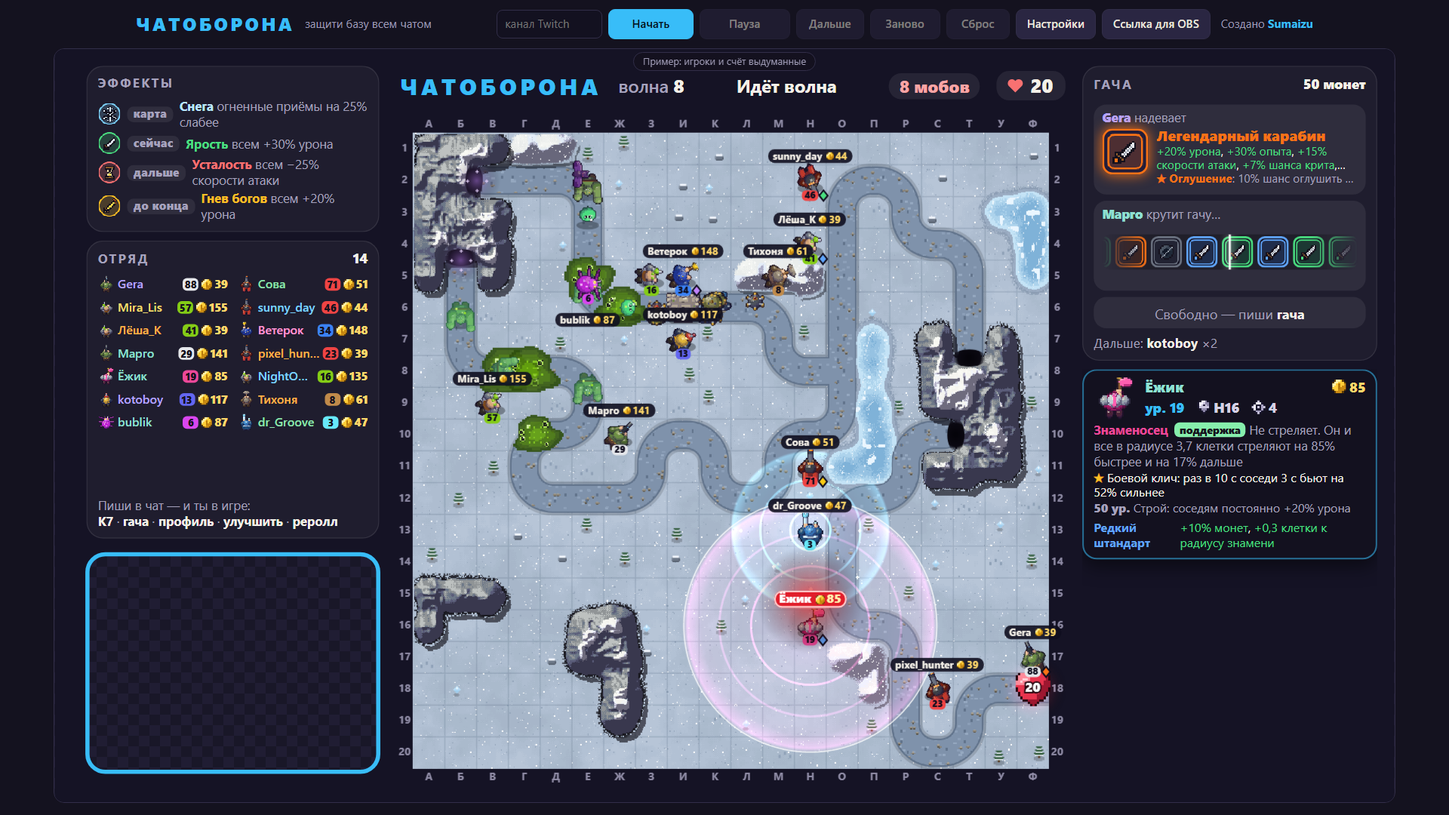
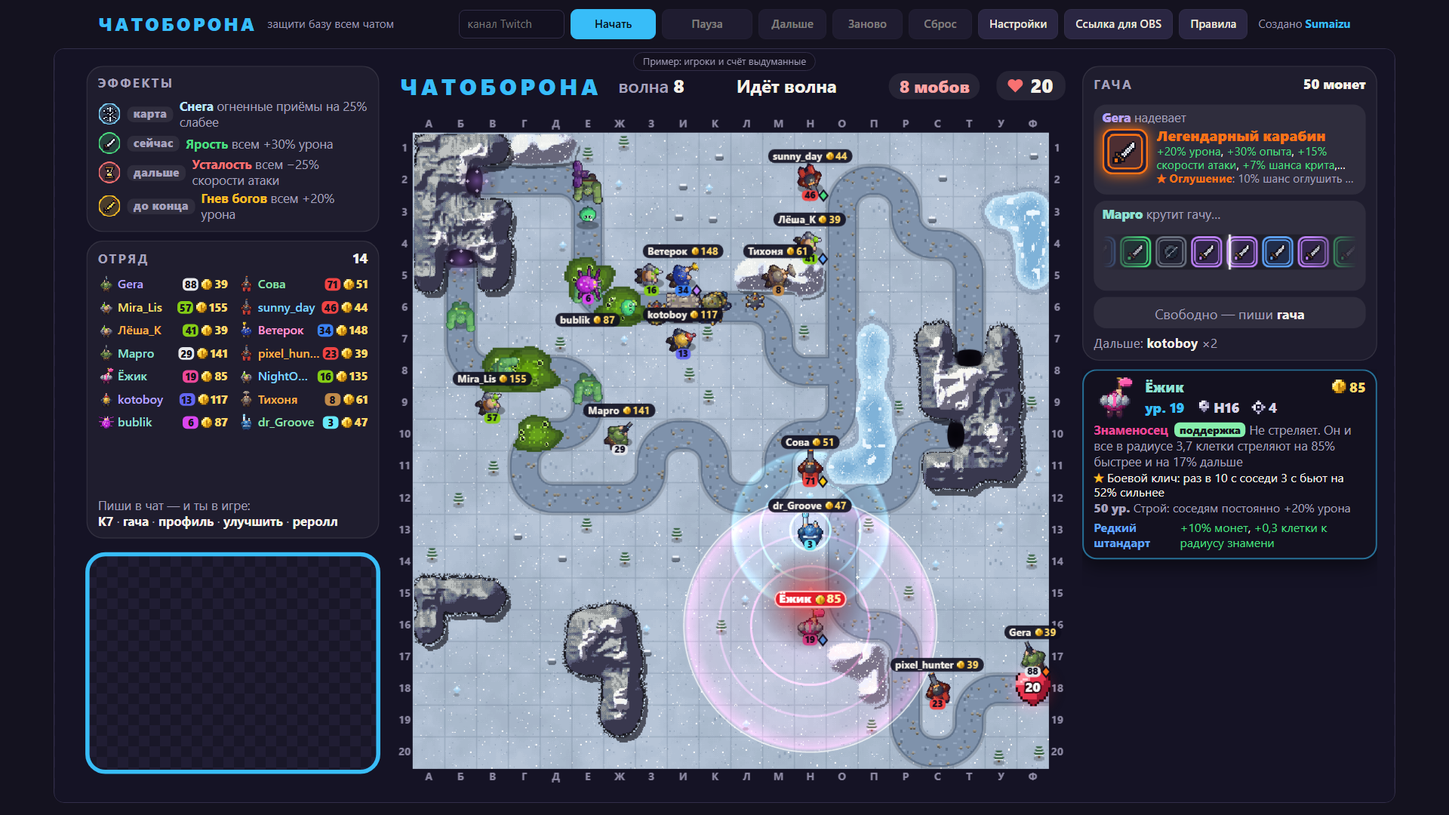
Кнопка «Правила» и команда !чатоборона: правила в оверлее на паузе

diff --git a/site/index.html b/site/index.html
@@ -22,6 +22,7 @@
       <button type="button" id="reset" title="Обнулить уровни, счёт и рекорд" disabled>Сброс</button>
       <button type="button" id="toggle-settings" aria-expanded="false" aria-controls="settings">Настройки</button>
       <button type="button" id="toggle-link" aria-expanded="false" aria-controls="link-panel">Ссылка для OBS</button>
+      <button type="button" id="open-rules">Правила</button>
     </form>
     <p class="author">Создано <a href="https://www.twitch.tv/sumaizu" target="_blank" rel="noopener">Sumaizu</a></p>
     <section class="panel popover" id="link-panel" hidden>
@@ -64,6 +65,7 @@
         <label class="check">
           <input type="checkbox" id="s-chat_commands">
           <span>Команды для стримера и модераторов
+            <span class="hint"><code>!чатоборона</code> — правила на экране, игра на паузе</span>
             <span class="hint"><code>!чатоборона-пауза</code> — пауза, ещё раз — продолжить</span>
             <span class="hint"><code>!чатоборона-дальше</code> — не ждать: сразу карта или волна</span>
             <span class="hint"><code>!чатоборона-заново</code> — новая игра</span>
@@ -130,58 +132,10 @@
 </main>
 <dialog class="rules" id="rules" aria-labelledby="rules-title">
   <header class="rules-head">
-    <h2 id="rules-title">Как устроена Чатоборона</h2>
+    <h2 id="rules-title"></h2>
     <button type="button" class="rules-x" id="rules-x" aria-label="Закрыть">×</button>
   </header>
-  <div class="rules-body">
-    <p class="lead">Чатоборона — защита базы всем чатом. Зрители пишут в чат и становятся защитниками на карте, а волны мобов идут к сердцу базы. Цель — продержаться как можно больше волн и поставить рекорд канала. Ставить ничего не нужно: игра сама читает чат твоего канала.</p>
-
-    <h3>Как запустить</h3>
-    <ul>
-      <li><b>В браузере.</b> Впиши свой канал Twitch в поле сверху и нажми «Начать». Сразу начнётся набор в отряд.</li>
-      <li><b>В OBS.</b> Нажми «Ссылка для OBS», скопируй ссылку и добавь в OBS источник «Браузер» с этой ссылкой, размер 1920×1080. Игра начнётся сама, как только источник появится на экране. Скрыл источник — игра на паузе.</li>
-      <li><b>Камера.</b> В оверлее есть прозрачное окошко под вебку: поставь камеру в OBS под оверлей и подгони под рамку.</li>
-      <li><b>Настройки</b> — одноимённая кнопка: длина набора и перерывов, звук, вебка, какие панели скрыть. Правки сразу действуют на игру в браузере, а ссылка для OBS обновляется сама — после правок вставь в OBS новую ссылку.</li>
-    </ul>
-
-    <h3>Как идёт игра</h3>
-    <ol>
-      <li><b>Набор в отряд</b> (3 минуты). Зритель пишет в чат что угодно — и он в отряде со случайным классом. На экране сами листаются правила, чтобы чат разобрался.</li>
-      <li><b>Подготовка.</b> Появляется карта, все защитники встают у дороги. Каждый может перейти на другую клетку, написав её в чат, например <code>к7</code>.</li>
-      <li><b>Волны.</b> Мобы выходят из двух пещер и идут к сердцу, защитники бьют их сами. Каждая 10-я волна — босс. У сердца 20 жизней: кончились — итоги игры, и через 15 секунд новый набор.</li>
-      <li><b>Прогресс.</b> Уровни игроков копятся от игры к игре, а монеты и оружие из гачи — только на одну игру.</li>
-    </ol>
-
-    <h3>Команды для зрителей</h3>
-    <dl class="rules-commands">
-      <dt><code>что угодно</code></dt><dd>вступить в отряд</dd>
-      <dt><code>к7</code></dt><dd>встать на клетку: буква столбца и номер строки</dd>
-      <dt><code>гача</code></dt><dd>оружие за 50 монет; <code>гача 3</code> — три крутки, <code>гача все</code> — на все монеты (не больше 5 за раз)</dd>
-      <dt><code>улучшить</code></dt><dd>+20% к случайному свойству оружия за 100 монет; <code>улучшить 5</code>, <code>улучшить все</code></dd>
-      <dt><code>профиль</code></dt><dd>своя карточка на экране; <code>проф</code> — короткая</dd>
-      <dt><code>реролл</code></dt><dd>другой класс — один раз за игру и только до первой волны</dd>
-    </dl>
-
-    <h3>Твои команды</h3>
-    <p>Для тебя и модераторов, в чате:</p>
-    <dl class="rules-commands">
-      <dt><code>!чатоборона-пауза</code></dt><dd>пауза, ещё раз — продолжить</dd>
-      <dt><code>!чатоборона-дальше</code></dt><dd>не ждать отсчёта: сразу карта или следующая волна</dd>
-      <dt><code>!чатоборона-заново</code></dt><dd>новая игра, уровни сохраняются</dd>
-      <dt><code>!чатоборона-сброс</code></dt><dd>обнулить уровни и рекорд канала</dd>
-      <dt><code>а1 б2</code></dt><dd>переставить защитника с клетки А1 на Б2 — только хозяин канала</dd>
-    </dl>
-    <p class="note-line">В браузере то же самое делают кнопки сверху. «Заново» и «Сброс» нужно нажать дважды — чтобы не задеть случайно.</p>
-
-    <h3>Карта</h3>
-    <p>Каждая игра — новая карта и биом: луг, вулкан, болото, снега, пустыня или кладбище. У биома своё правило — оно показано в «Эффектах». Горы закрывают выстрел, с холмов бьют дальше, на горы и в воду встать нельзя.</p>
-
-    <h3>Советы</h3>
-    <ul>
-      <li>Чем больше зрителей в отряде, тем дальше он проходит — зови чат вступать.</li>
-      <li>Отряд сильнее всего, когда в нём есть урон, контроль и поддержка.</li>
-    </ul>
-  </div>
+  <div class="rules-body" id="rules-body"></div>
   <footer class="rules-foot">
     <button type="button" class="primary" id="rules-close">Закрыть</button>
   </footer>

diff --git a/site/js/rules.js b/site/js/rules.js
@@ -1,0 +1,108 @@
+export const RULES_TITLE = 'Как устроена Чатоборона';
+
+const b = (text) => ({ b: text });
+const c = (text) => ({ code: text });
+
+export const RULES = [
+  {
+    lead: ['Чатоборона — защита базы всем чатом. Зрители пишут в чат и становятся защитниками на карте, а волны '
+      + 'мобов идут к сердцу базы. Цель — продержаться как можно больше волн и поставить рекорд канала. Ставить '
+      + 'ничего не нужно: игра сама читает чат твоего канала.'],
+  },
+  {
+    title: 'Как запустить',
+    list: [
+      [b('В браузере.'), ' Впиши свой канал Twitch в поле сверху и нажми «Начать». Сразу начнётся набор в отряд.'],
+      [b('В OBS.'), ' Нажми «Ссылка для OBS», скопируй ссылку и добавь в OBS источник «Браузер» с этой ссылкой, '
+        + 'размер 1920×1080. Игра начнётся сама, как только источник появится на экране. Скрыл источник — игра на '
+        + 'паузе.'],
+      [b('Камера.'), ' В оверлее есть прозрачное окошко под вебку: поставь камеру в OBS под оверлей и подгони под '
+        + 'рамку.'],
+      [b('Настройки'), ' — одноимённая кнопка: длина набора и перерывов, звук, вебка, какие панели скрыть. Правки '
+        + 'сразу действуют на игру в браузере, а ссылка для OBS обновляется сама — после правок вставь в OBS новую '
+        + 'ссылку.'],
+    ],
+  },
+  {
+    title: 'Как идёт игра',
+    steps: [
+      [b('Набор в отряд'), ' (3 минуты). Зритель пишет в чат что угодно — и он в отряде со случайным классом. На '
+        + 'экране сами листаются правила, чтобы чат разобрался.'],
+      [b('Подготовка.'), ' Появляется карта, все защитники встают у дороги. Каждый может перейти на другую клетку, '
+        + 'написав её в чат, например ', c('к7'), '.'],
+      [b('Волны.'), ' Мобы выходят из двух пещер и идут к сердцу, защитники бьют их сами. Каждая 10-я волна — '
+        + 'босс. У сердца 20 жизней: кончились — итоги игры, и через 15 секунд новый набор.'],
+      [b('Прогресс.'), ' Уровни игроков копятся от игры к игре, а монеты и оружие из гачи — только на одну игру.'],
+    ],
+  },
+  {
+    title: 'Команды для зрителей',
+    commands: [
+      ['что угодно', ['вступить в отряд']],
+      ['к7', ['встать на клетку: буква столбца и номер строки']],
+      ['гача', ['оружие за 50 монет; ', c('гача 3'), ' — три крутки, ', c('гача все'),
+        ' — на все монеты (не больше 5 за раз)']],
+      ['улучшить', ['+20% к случайному свойству оружия за 100 монет; ', c('улучшить 5'), ', ', c('улучшить все')]],
+      ['профиль', ['своя карточка на экране; ', c('проф'), ' — короткая']],
+      ['реролл', ['другой класс — один раз за игру и только до первой волны']],
+    ],
+  },
+  {
+    title: 'Твои команды',
+    text: ['Для тебя и модераторов, в чате:'],
+    commands: [
+      ['!чатоборона', ['эти правила на экране, игра на паузе']],
+      ['!чатоборона-пауза', ['пауза, ещё раз — продолжить']],
+      ['!чатоборона-дальше', ['не ждать отсчёта: сразу карта или следующая волна']],
+      ['!чатоборона-заново', ['новая игра, уровни сохраняются']],
+      ['!чатоборона-сброс', ['обнулить уровни и рекорд канала']],
+      ['а1 б2', ['переставить защитника с клетки А1 на Б2 — только хозяин канала']],
+    ],
+    note: ['В браузере то же самое делают кнопки сверху. «Заново» и «Сброс» нужно нажать дважды — чтобы не задеть '
+      + 'случайно.'],
+  },
+  {
+    title: 'Карта',
+    text: ['Каждая игра — новая карта и биом: луг, вулкан, болото, снега, пустыня или кладбище. У биома своё правило '
+      + '— оно показано в «Эффектах». Горы закрывают выстрел, с холмов бьют дальше, на горы и в воду встать нельзя.'],
+  },
+  {
+    title: 'Советы',
+    list: [
+      ['Чем больше зрителей в отряде, тем дальше он проходит — зови чат вступать.'],
+      ['Отряд сильнее всего, когда в нём есть урон, контроль и поддержка.'],
+    ],
+  },
+];
+
+function node(tag, className, parts) {
+  const item = document.createElement(tag);
+  if (className) item.className = className;
+  for (const part of parts || []) {
+    if (typeof part === 'string') item.append(part);
+    else if (part.b) item.append(node('b', '', [part.b]));
+    else item.append(node('code', '', [part.code]));
+  }
+  return item;
+}
+
+export function renderRules(box) {
+  box.textContent = '';
+  for (const section of RULES) {
+    if (section.lead) box.append(node('p', 'lead', section.lead));
+    if (section.title) box.append(node('h3', '', [section.title]));
+    if (section.text) box.append(node('p', '', section.text));
+    for (const [key, tag] of [['list', 'ul'], ['steps', 'ol']]) {
+      if (!section[key]) continue;
+      const list = node(tag);
+      for (const parts of section[key]) list.append(node('li', '', parts));
+      box.append(list);
+    }
+    if (section.commands) {
+      const list = node('dl', 'rules-commands');
+      for (const [command, parts] of section.commands) list.append(node('dt', '', [c(command)]), node('dd', '', parts));
+      box.append(list);
+    }
+    if (section.note) box.append(node('p', 'note-line', section.note));
+  }
+}

diff --git a/site/css/overlay.css b/site/css/overlay.css
@@ -121,6 +121,33 @@ body {
 .players ol.two .crown-slot .crown { width: 12px; height: 9px; }
 .profile .crown-slot .crown { width: 19px; height: 14px; }
 @keyframes cheer-in { from { transform: translate(-50%, -50%) scale(.3); opacity: 0; } }
+.rules-board {
+  position: absolute; top: 16px; right: 16px; bottom: 16px; left: 326px; z-index: 8; display: flex;
+  flex-direction: column; padding: 14px 22px 16px; border-radius: 18px; background: #15131f;
+  box-shadow: 0 0 0 2px var(--accent), 0 18px 50px rgba(0, 0, 0, .6);
+}
+.nochat .rules-board { left: 16px; }
+.rules-resume {
+  align-self: center; margin: 0 0 8px; padding: 5px 16px; border-radius: 999px; background: var(--accent);
+  color: #04121c; font-size: 15px; font-weight: 700;
+}
+.rules-resume b { font-weight: 900; }
+.rules-board h2 { margin: 0 0 6px; font-size: 22px; font-weight: 900; color: var(--accent); text-align: center; }
+.rules-text {
+  flex: 1; min-height: 0; overflow: hidden; columns: 2; column-gap: 30px; column-fill: auto; font-size: 12px;
+  line-height: 15.5px; color: var(--ink);
+}
+.rules-text p, .rules-text ul, .rules-text ol, .rules-text dl { margin: 0 0 5px; }
+.rules-text .lead { font-size: 13px; line-height: 17px; }
+.rules-text h3 { margin: 7px 0 3px; font-size: 13px; font-weight: 800; color: var(--accent); break-after: avoid; }
+.rules-text ul, .rules-text ol { padding-left: 18px; }
+.rules-text li { margin-bottom: 2px; }
+.rules-text code { font-family: Consolas, "Cascadia Mono", monospace; font-size: 11.5px; color: #fde047; }
+.rules-commands {
+  display: grid; grid-template-columns: max-content minmax(0, 1fr); gap: 3px 10px; break-inside: avoid;
+}
+.rules-commands dd { margin: 0; color: var(--muted); }
+.rules-text .note-line { color: var(--muted); }
 .blackout {
   position: absolute; inset: 0; z-index: 5; border-radius: 14px; pointer-events: none; opacity: 0;
   box-shadow: 0 0 0 2000px rgba(4, 3, 10, .72);

diff --git a/site/js/view.js b/site/js/view.js
@@ -8,6 +8,7 @@ import { BIOME_RULES, LEVEL_MAX, LIVES, levelOf, tierOf, towerBase } from './bal
 import { SIZE, cellName } from './field.js';
 import { SFX_GAPS, play } from './sound.js';
 import { PAGES, pageAt } from './guide.js';
+import { RULES_TITLE, renderRules } from './rules.js';
 
 const STAGE_WIDTH = 1280, STAGE_HEIGHT = 720;
 const PAINT_EVERY = 0.15;
@@ -192,6 +193,8 @@ export class View {
     this._slots = [];
     this._cards = new Map();
     this._cardTall = 0;
+    $('rules-board-title').textContent = RULES_TITLE;
+    renderRules($('rules-text'));
     $('emblem-left').src = shieldUrl(64);
     $('emblem-right').src = shieldUrl(64);
     window.addEventListener('resize', () => this._fitStage());
@@ -544,10 +547,12 @@ export class View {
     this._lives = lives;
     $('lobby').hidden = game.state !== 'lobby';
     $('over').hidden = game.state !== 'over';
-    $('pause').hidden = state !== 'paused';
+    const rules = state === 'paused' && game.rulesShown;
+    $('pause').hidden = state !== 'paused' || rules;
+    $('rules-board').hidden = !rules;
     if (game.state === 'lobby') this._paintLobby(game, still);
     if (game.state === 'over') this._paintOver(game);
-    if (state === 'paused') this._paintPause(game);
+    if (state === 'paused' && !rules) this._paintPause(game);
     this._paintSlots(game);
     this._paintEffects(game);
     this._paintPlayers(game);

diff --git a/site/js/engine.js b/site/js/engine.js
@@ -11,6 +11,7 @@ export const COMMANDS = new Map([
   ['!чатоборона-дальше', 'next'],
   ['!чатоборона-заново', 'restart'],
   ['!чатоборона-сброс', 'reset'],
+  ['!чатоборона', 'rules'],
 ]);
 export const ACTIONS = new Map([
   ['гача', 'spin'],
@@ -183,6 +184,7 @@ export class Game {
     this.slots = Array(SLOTS).fill(null);
     this.notes = [];
     this.cards = [];
+    this.rulesShown = false;
     this.cardRoom = CARD_ROOM;
     this.events = [];
     this._noteNo = 0;
@@ -214,9 +216,17 @@ export class Game {
     return this.setPaused(!this.paused);
   }
 
+  showRules() {
+    if (this.state === 'stopped') return false;
+    this.rulesShown = true;
+    this.setPaused(true);
+    return true;
+  }
+
   setPaused(paused) {
     if (this.state === 'stopped' || this.paused === paused) return false;
     this.paused = paused;
+    if (!paused) this.rulesShown = false;
     this._emit(paused ? 'paused' : 'resumed');
     return true;
   }
@@ -420,6 +430,7 @@ export class Game {
 
   _control(command) {
     if (command === 'pause') return this.pause() ? 'pause' : null;
+    if (command === 'rules') return this.showRules() ? 'rules' : null;
     if (command === 'next') return this.next() ? 'next' : null;
     if (command === 'restart') return this.restart() ? 'restart' : null;
     if (command === 'reset') {

diff --git a/tests/js/engine.test.js b/tests/js/engine.test.js
@@ -618,3 +618,18 @@ test('стример переставляет защитников «А1 Б2»; 
   eq(game.feed('Streamer', late, { login: 'streamer' }), 'later');
   eq(gosha.pendingMove, { x: next.x, y: next.y });
 });
+
+test('команда !чатоборона: правила на экране и пауза, «!чатоборона-пауза» продолжает; зрителям нельзя', () => {
+  const { game } = makeGame();
+  game.open();
+  say(game, 'Аня', 'привет');
+  toWave(game);
+  eq(say(game, 'Аня', '!чатоборона'), null, 'зрителю нельзя');
+  no(game.paused);
+  eq(say(game, 'Мод', '!чатоборона', MOD), 'rules');
+  ok(game.paused && game.rulesShown, 'игра стоит, правила на экране');
+  eq(say(game, 'Мод', '!чатоборона-пауза', MOD), 'pause');
+  ok(!game.paused && !game.rulesShown, 'игра идёт, правила убраны');
+  game.pause();
+  no(game.rulesShown, 'обычная пауза — без правил');
+});

diff --git a/site/js/page.js b/site/js/page.js
@@ -1,4 +1,5 @@
 import { clean, fromQuery, toQuery } from './config.js';
+import { RULES_TITLE, renderRules } from './rules.js';
 
 const STORAGE_KEY = 'chatoborona.settings';
 const NUMBERS = ['lobby', 'first_wave', 'wave_pause', 'reset_hour', 'reset_hours', 'volume'];
@@ -227,6 +228,7 @@ $('toggle-settings').addEventListener('click', toggleSettings);
 $('toggle-link').addEventListener('click', () => showLinkPanel(linkPanel.hidden));
 $('copy').addEventListener('click', copyLink);
 for (const id of ['rules-x', 'rules-close']) $(id).addEventListener('click', () => $('rules').close());
+$('open-rules').addEventListener('click', () => $('rules').showModal());
 document.addEventListener('keydown', (event) => {
   if (event.key === 'Escape') showLinkPanel(false);
 });
@@ -236,6 +238,8 @@ document.addEventListener('click', (event) => {
 
 fillForm();
 showLink();
+$('rules-title').textContent = RULES_TITLE;
+renderRules($('rules-body'));
 $('rules').showModal();
 frame.src = overlayLink(['embed=1', toQuery(settings)].filter(Boolean).join('&'));
 sync();

diff --git a/site/js/overlay.js b/site/js/overlay.js
@@ -8,7 +8,7 @@ import { View } from './view.js';
 const CODE_FILES = ['overlay.html', 'css/overlay.css', 'js/overlay.js', 'js/view.js', 'js/draw.js', 'js/sprites.js',
   'js/engine.js', 'js/battle.js', 'js/balance.js', 'js/classes.js', 'js/field.js', 'js/gacha.js', 'js/chat.js',
   'js/config.js', 'js/demo.js', 'js/sound.js', 'js/events.js', 'js/models.js', 'js/monsters.js', 'js/props.js',
-  'js/guide.js'];
+  'js/guide.js', 'js/rules.js'];
 const LOCAL = ['localhost', '127.0.0.1', '[::1]'].includes(location.hostname);
 const UPDATE_CHECK_SECONDS = LOCAL ? 5 : 300;
 const RELOAD_PAUSE_SECONDS = LOCAL ? 0 : 600;

diff --git a/site/overlay.html b/site/overlay.html
@@ -10,6 +10,11 @@
 <div id="stage" hidden>
   <div class="cheer" id="cheer" hidden><canvas id="confetti" width="640" height="360"></canvas></div>
   <div class="card" id="card">
+    <section class="rules-board" id="rules-board" hidden>
+      <p class="rules-resume"><b>!чатоборона-пауза</b> — продолжить игру</p>
+      <h2 id="rules-board-title"></h2>
+      <div class="rules-text" id="rules-text"></div>
+    </section>
     <div class="cam"></div>
     <aside class="left" id="left">
       <div class="list effects"><h3>Эффекты</h3><div id="effects"></div></div>

diff --git a/README.md b/README.md
@@ -17,7 +17,7 @@
 ![Главная страница: канал и кнопки сверху, игра на всю страницу, настройки справа](docs/page.png)
 
 При каждом открытии страницы поверх игры появляется окно с правилами для стримера: как запустить, команды зрителей
-и свои, как идёт игра. Закрывается крестиком или кнопкой «Закрыть».
+и свои, как идёт игра. Закрывается крестиком или кнопкой «Закрыть», снова открывается кнопкой «Правила» в шапке.
 
 **В браузере.** Открой [gamesonstream.ru/chatoborona](https://gamesonstream.ru/chatoborona/), впиши сверху свой
 канал Twitch и нажми «Начать». Сразу начнётся набор в отряд. Пока игра не начата, на её месте пример с выдуманными
@@ -318,6 +318,7 @@
 Для стримера и модераторов:
 
 ```
+!чатоборона           правила игры на экране, игра на паузе (продолжить — !чатоборона-пауза)
 !чатоборона-пауза     поставить игру на паузу; ещё раз — продолжить
 !чатоборона-дальше    не ждать: сразу карта или следующая волна
 !чатоборона-заново    новая игра
